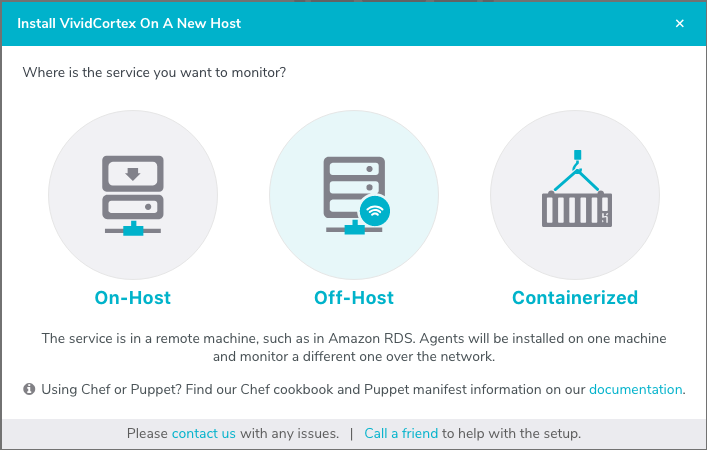
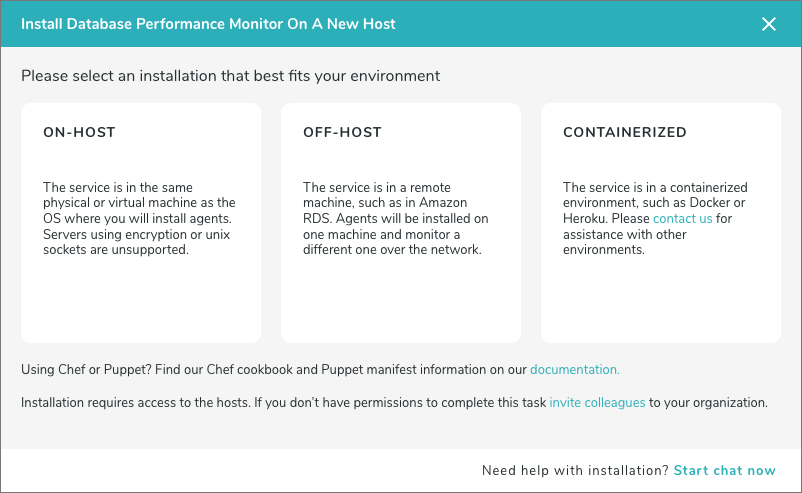
Update vivid cortex docs for new procedure (#935)

diff --git a/cloud/monitoring.rst b/cloud/monitoring.rst
@@ -235,9 +235,13 @@ VividCortex External Monitoring
 
 Like the systems above, VividCortex provides a metrics dashboard. While the other systems mostly focus on computer resources, VividCortex focuses on the performance of queries. It tracks their throughput, error rate, 99th percentile latency, and concurrency.
 
-To integrate VividCortex with Citus Cloud we'll be using the `Off-Host Configuration <https://docs.vividcortex.com/getting-started/off-host-installation/>`_. In this mode we create a database role with permissions to read the PostgreSQL statistics tables, and give the role's login information to the VividCortex agent. VividCortex then connects and periodically collects information.
+To integrate VividCortex with Citus Cloud we'll be using the `Off-Host Configuration <https://docs.vividcortex.com/getting-started/off-host-installation/>`_. In this mode we choose a database role with permissions to read the PostgreSQL statistics tables, and give the role's login information to the VividCortex agent. VividCortex then connects and periodically collects information.
 
 Here's a step-by-step guide to get started.
+
+.. note::
+
+  The steps below give VividCortex access to the database as the "citus" role. This role has fairly elevated permissions. Consider possible issues of data confidentiality before enabling VividCortex monitoring.
 
 1. Create a special VividCortex schema and relations on the Citus coordinator node.
 
@@ -251,11 +255,7 @@ Here's a step-by-step guide to get started.
 
 2. Create a VividCortex account.
 
-2. On the **inventory** page, click "Setup your first host." This will open a wizard.
-
-   .. image:: ../images/vc-setup-first-host.png
-
-3. Choose the off-host installation method.
+3. The **Summary** page will prompt you to "Install Database Performance Monitor On A New Host." Choose **OFF-HOST**.
 
    .. image:: ../images/vc-method-type.png
 
@@ -263,36 +263,41 @@ Here's a step-by-step guide to get started.
 
    .. image:: ../images/vc-db.png
 
-5. In Citus Cloud, :ref:`create a new role <cloud_roles>` called ``vividcortex``. Then grant it access to the VividCortex schema like so:
-
-   .. code-block:: bash
-
-      # Grant our new role access to vividcortex schema
-
-      psql [connection_uri] -c \
-        "GRANT USAGE ON SCHEMA vividcortex TO vividcortex;"
-
-  Finally note the generated password for the new account. Click "Show full URL" to see it.
-
-   .. image:: ../images/vc-new-role.png
-
-6. Input the connection information into the credentials screen in the VividCortex wizard. Make sure SSL Enabled is on, and that you're using SSL Mode "Verify Full." Specify ``/etc/ssl/certs/citus.crt`` for the SSL Authority.
+5. Input the connection information into the credentials screen in the VividCortex wizard. The "citus" user is required. Make sure SSL Enabled is on, and that you're using SSL Mode "Verify Full." Specify ``/etc/ssl/certs/citus.crt`` for the SSL Authority.
 
    .. image:: ../images/vc-connection.png
 
-7. Provision a server to act as the VividCortex agent. For instance a small EC2 instance will do. On this new host install the Citus Cloud SSL certificate.
+6. Skip the **create user** step. We'll be using the "citus" user, because it's the only one with enough permissions to view query statistics on Citus Cloud.
+
+   .. figure:: ../images/vc-create-user.png
+
+     (Skip this step)
+
+7. Skip the **configuration** step. We know that ``pg_stat_statements`` is pre-configured properly on Citus Cloud.
+
+   .. figure:: ../images/vc-config.png
+
+     (Skip this step)
+
+8. Provision a server to act as the VividCortex agent. For instance a small EC2 instance will do. On this new host install the Citus Cloud SSL certificate.
 
    .. code-block:: bash
 
      sudo curl -L https://console.citusdata.com/citus.crt \
        -o /etc/ssl/certs/citus.crt
 
-8. Advance to the next screen in the wizard. It will contain commands to run on the agent server, customized with a token for your account.
+9. Advance to the next screen in the wizard. It will contain commands to run on the agent server, customized with a token for your account.
 
    .. image:: ../images/vc-commands.png
 
-  After running the commands on your server, the server will appear under "Select host." Click it and then continue.
+   After running the commands on your server, the server will appear under **Select host.** Click it and go to the next step in the wizard.
 
-After these steps, VividCortex should show all systems as activated. You can then proceed to the dashboard to monitor queries on your Citus cluster.
+   .. image:: ../images/vc-commands-2.png
 
-.. image:: ../images/vc-final.png
+10. After these steps, VividCortex should show all systems as activated.
+
+   .. image:: ../images/vc-check-agent.png
+
+You can then proceed to the dashboard to monitor queries on your Citus cluster.
+
+.. image:: ../images/vc-dashboard.png
